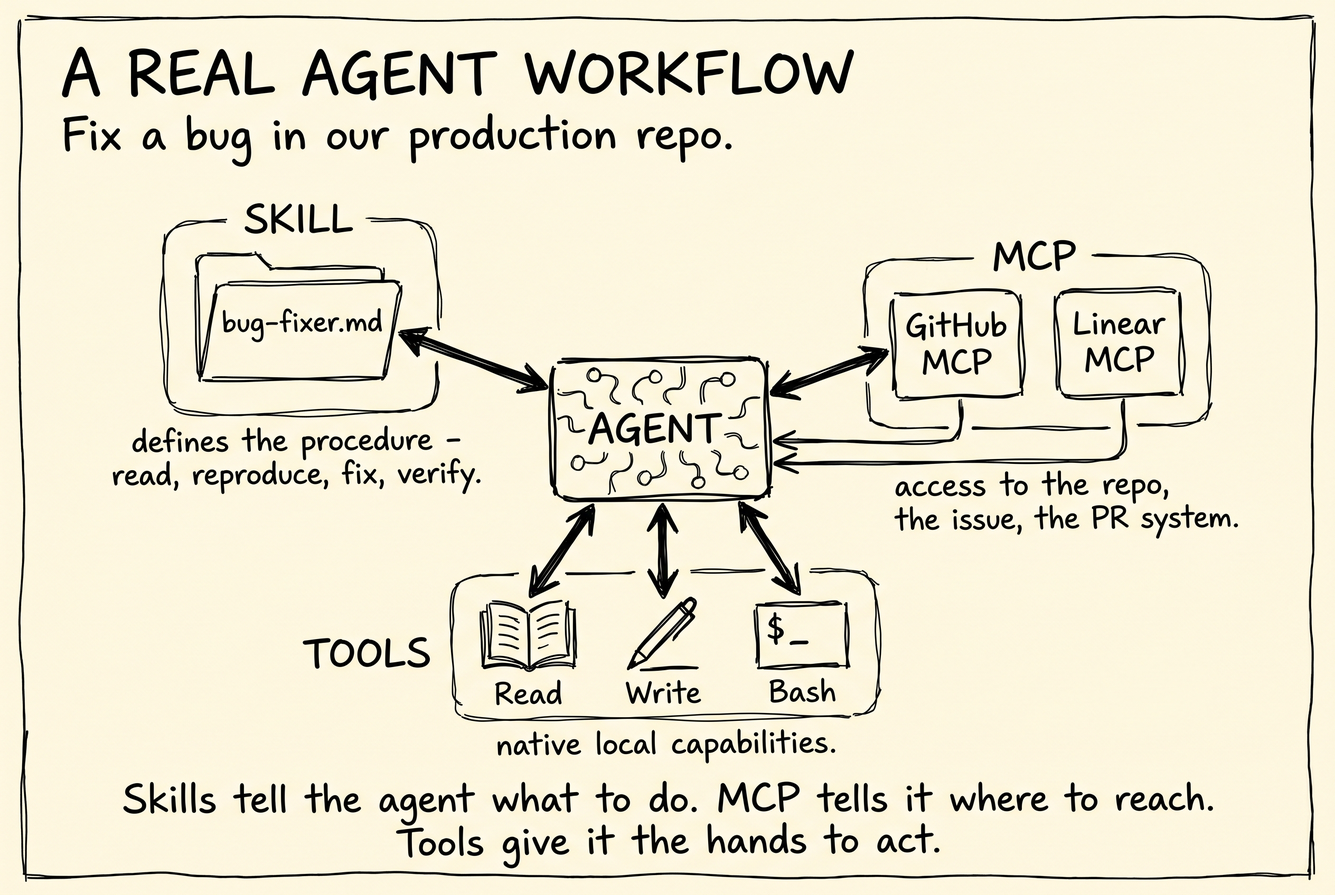
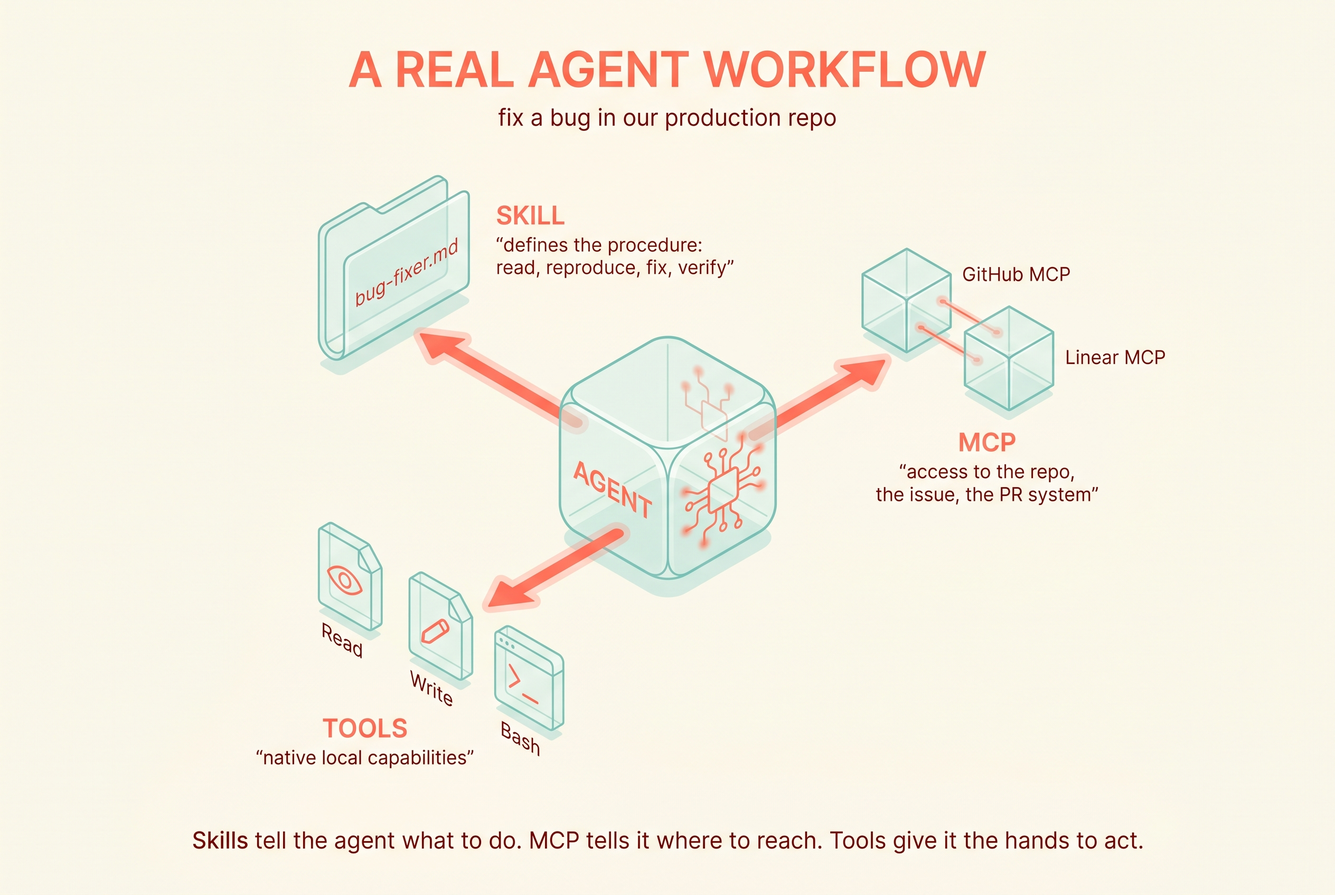
Archive diagram-3-architecture.png from content: Skills MCP Tools three layers, restyled to match hero: diagram-3-architecture.png

diff --git a/projects/content/INDEX.md b/projects/content/INDEX.md
@@ -59,3 +59,4 @@
 | 2026-05-16 | images | [diagram-3-architecture.png](images/diagram-3-architecture.png) | Skills MCP Tools three layers: diagram-3-architecture.png | /Users/marcokotrotsos/PERSONAL/Content/drafts/skills-mcp-tools-three-layers/diagram-3-architecture.png |
 | 2026-05-16 | images | [diagram-1-anatomy.png](images/diagram-1-anatomy.png) | Skills MCP Tools three layers, restyled to match hero: diagram-1-anatomy.png | /Users/marcokotrotsos/PERSONAL/Content/drafts/skills-mcp-tools-three-layers/diagram-1-anatomy.png |
 | 2026-05-16 | images | [diagram-2-decision.png](images/diagram-2-decision.png) | Skills MCP Tools three layers, restyled to match hero: diagram-2-decision.png | /Users/marcokotrotsos/PERSONAL/Content/drafts/skills-mcp-tools-three-layers/diagram-2-decision.png |
+| 2026-05-16 | images | [diagram-3-architecture.png](images/diagram-3-architecture.png) | Skills MCP Tools three layers, restyled to match hero: diagram-3-architecture.png | /Users/marcokotrotsos/PERSONAL/Content/drafts/skills-mcp-tools-three-layers/diagram-3-architecture.png |

diff --git a/INDEX.md b/INDEX.md
@@ -146,3 +146,4 @@
 | 2026-05-16 | content | images | [diagram-3-architecture.png](projects/content/images/diagram-3-architecture.png) | Skills MCP Tools three layers: diagram-3-architecture.png |
 | 2026-05-16 | content | images | [diagram-1-anatomy.png](projects/content/images/diagram-1-anatomy.png) | Skills MCP Tools three layers, restyled to match hero: diagram-1-anatomy.png |
 | 2026-05-16 | content | images | [diagram-2-decision.png](projects/content/images/diagram-2-decision.png) | Skills MCP Tools three layers, restyled to match hero: diagram-2-decision.png |
+| 2026-05-16 | content | images | [diagram-3-architecture.png](projects/content/images/diagram-3-architecture.png) | Skills MCP Tools three layers, restyled to match hero: diagram-3-architecture.png |
